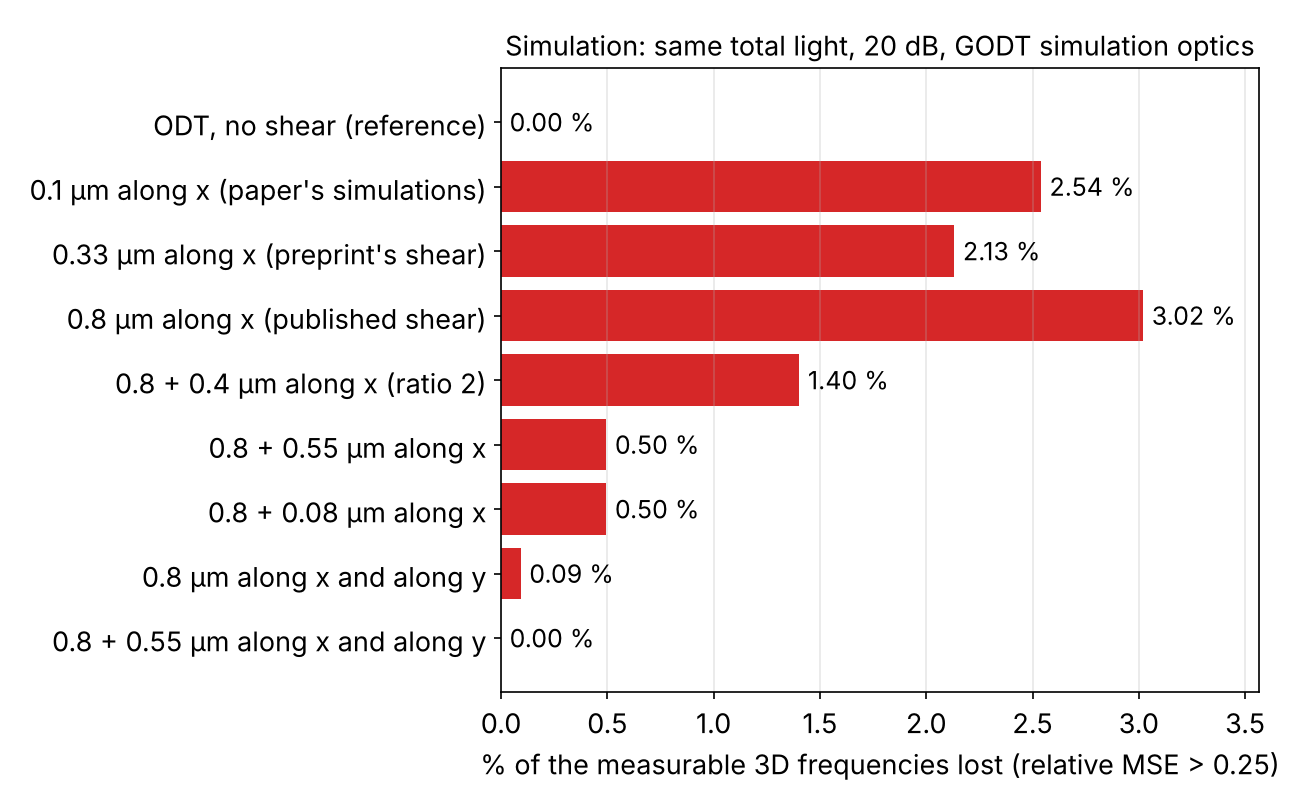
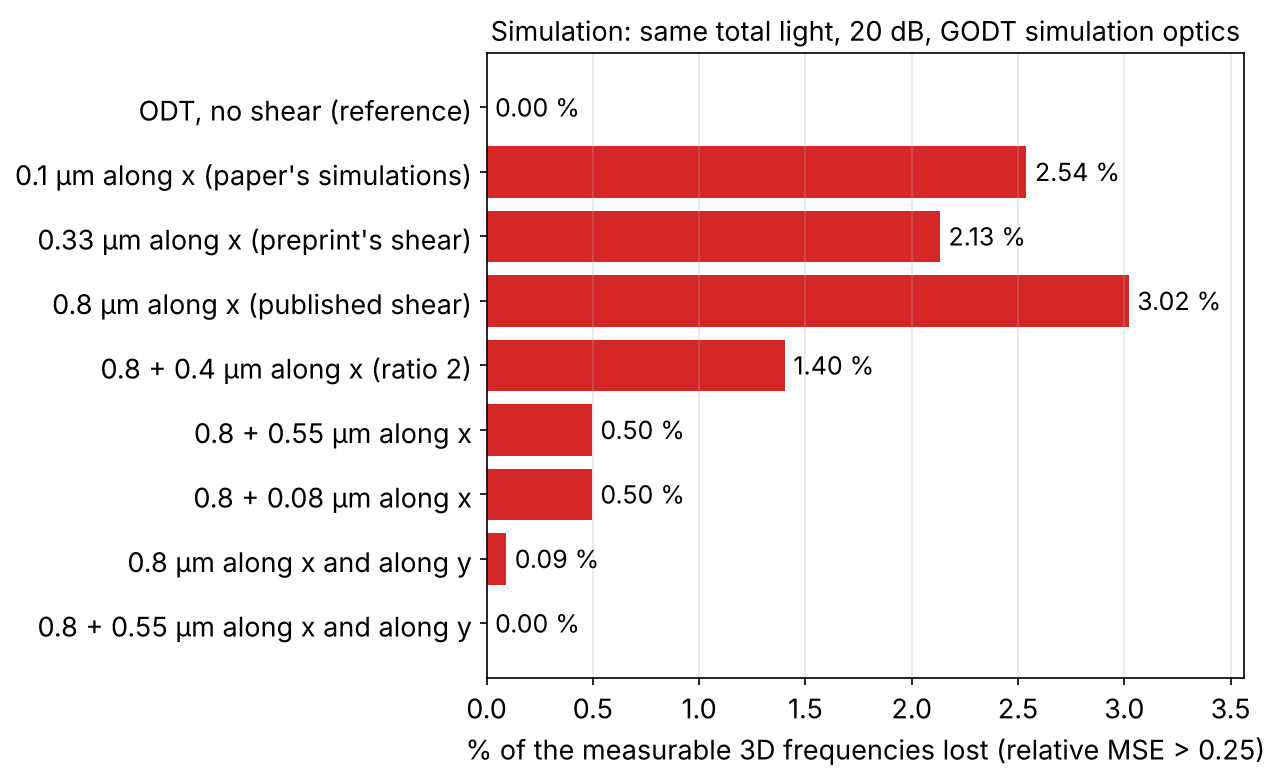
lint: final-check fixes
Finish the direction-vs-magnitude correction on the remaining pages (with [audit]
notes where the old claim is kept), fix the README's coprimality wording, fusion
range and CI description, drop the last 24x claim, test the 0.09 % and 0.50 %
figures, and stop the hero figure from clipping with other fonts.

diff --git a/tests/test_headline_numbers.py b/tests/test_headline_numbers.py
@@ -80,6 +80,8 @@ def test_exp03_lost_volume_in_the_readme_figure(exp03):
     assert floats(row(exp03, "0.8 x  (published exp)"))[1:3] == [0.0342, 3.02]
     assert floats(row(exp03, "0.1 x  (GODT sim shear)"))[2] == 2.54
     assert floats(row(exp03, "{0.8, 0.55} x + {0.8, 0.55} y"))[2] == 0.00
+    assert floats(row(exp03, "0.8 x + 0.8 y"))[2] == 0.09
+    assert floats(row(exp03, "0.8 x + 0.55 x"))[2] == 0.50
     assert floats(row(exp03, "an m != 0 null plane :"))[0] == 83.6
     assert floats(row(exp03, "the blind plane K_x=0:"))[0] == 16.4
     assert after(row(exp03, "field  25.6 um"), "proj:") == 76.6

diff --git a/lab/exp03_ewald_fisher.py b/lab/exp03_ewald_fisher.py
@@ -304,7 +304,7 @@ def main():
         ax2.invert_yaxis()
         ax2.grid(alpha=.3, axis="x")
         fig2.tight_layout()
-        fig2.savefig(out_path("lost_volume.png"), dpi=150)
+        fig2.savefig(out_path("lost_volume.png"), dpi=150, bbox_inches="tight")
     print()
     print(f"  wrote {out_path('ewald_maps.png')}")
     print(f"  wrote {out_path('lost_volume.png')}")

diff --git a/wiki/projects/godt.md b/wiki/projects/godt.md
@@ -36,7 +36,7 @@ The gradient *measurement* is shared with the whole [[gradient-phase-imaging]] f
 See [[multi-shear-acquisition]] for the full picture. There are two reasons.
 
 1. **Directional contrast.** A single shear sees index variation along one direction only ([[kandel2019]]; [[mehta-sheppard2008]] shows the transfer perpendicular to the shear is brightfield). Measured gains from extra directions saturate quickly, at about one orthogonal pair ([[zhu2024-appl-phys-b]], [[zhu2024-sensors]], [[zhu2025-sci-rep]]). Combining shear orientations is also the future work the GODT paper names.
-2. **Transfer nulls.** The finite-shear factor vanishes at $K=2\pi m/\Delta$. The null comb, and filling it with a second shear in a coprime ratio, are known in 2D lateral-shearing interferometry ([[servin2007]], [[mehta-sheppard2008]]; Elster & Weingärtner 1999, reviewed in Tomioka et al. 2023, arXiv:2309.16434). This project quantifies the comb in the 3D Ewald setting ([[finite-shear-null-experiment]]). In 3D a second shear direction already covers most of the first direction's null planes, and a second, incommensurate magnitude removes what both directions miss ([[multishear-fusion-design-solution]] §3). The null frequencies carry no data at any SNR, so this is recovery of missing information rather than noise averaging.
+2. **Transfer nulls.** The finite-shear factor vanishes at $K=2\pi m/\Delta$. The null comb, and filling it with a second shear in a coprime ratio, are known in 2D lateral-shearing interferometry ([[servin2007]], [[mehta-sheppard2008]]; Elster & Weingärtner 1999, summarised in Tomioka et al. 2023, arXiv:2309.16434). This project quantifies the comb in the 3D Ewald setting ([[finite-shear-null-experiment]]). In 3D a second shear direction already covers most of the first direction's null planes, and a second, incommensurate magnitude removes what both directions miss ([[multishear-fusion-design-solution]] §3). The null frequencies carry no data at any SNR, so this is recovery of missing information rather than noise averaging.
 
 Acquisition hardware for two shear directions already exists in several forms ([[nguyen2025-deep-learning-lsi]], [[sciadv-adl0501]], [[2605-04297-double-sagnac-ls-qpm]]), and colour can act as a shear magnitude ([[colour-multiplexed-shear]]). The question studied here is the reconstruction side: how to fuse shear channels in $\tilde O$-space, and how to choose them.
 
@@ -46,7 +46,7 @@ Code lives in [`lab/`](../../lab/README.md). The results below come from determi
 
 ### Step 1: transfer nulls ([[finite-shear-null-experiment]])
 
-At 0.8 μm shear, three nulls fall inside the measurable band and cost 3.56 % of it along the shear axis. At 0.1 μm there are none. Two design rules follow: avoid commensurate magnitude ratios, and treat magnitudes and directions as fixes for different defects.
+At 0.8 μm shear, three nulls fall inside the measurable band and cost 3.56 % of it along the shear axis. At 0.1 μm there are none. Two design rules follow: avoid commensurate magnitude ratios, and use both kinds of diversity, since a second direction covers the blind plane and most of the null planes and a second magnitude removes what both directions miss.
 
 ### Step 2: fusion and optimal design in 3D
 
@@ -56,7 +56,7 @@ Notes: [[multishear-fusion-design-problem]], [[multishear-fusion-design-solution
 2. Transmission ODT never samples the $K_z$ axis, so the fact that in-plane shears cannot see it costs nothing extra. What a single shear does lose is its blind *plane*, 0.50 % of the support, and a second shear direction recovers it.
 3. At 0.8 μm the lost volume is 3.02 %: 83.6 % on the null planes and 16.4 % on the blind plane. A second direction at the same magnitude cuts it to 0.09 %, a second magnitude along the same direction to 0.50 %, and both together to 0.00 %. A larger shear narrows the blind slab but lets nulls into the band, so single-shear quality is not monotone in $\Delta$.
 4. The best single shear is $\Delta\approx2\pi/K_{\max}=\lambda/(\mathrm{NA_{det}}+\mathrm{NA_{ill}})$ (0.20 μm for the simulation optics), the largest shear that keeps the null comb out of the band and roughly the lateral resolution limit. This assumes coherent, monochromatic light; partial coherence pulls the optimum to smaller shears.
-5. In the linear model and at equal photon budget, weighting each frequency by its information gives 21× lower error than equal-weight averaging of the reconstructions. Fusion is the same as precision-weighted averaging, so the estimator is standard; the 21× measures what the per-frequency weights are worth against plain averaging.
+5. In the linear model and at equal photon budget, weighting each frequency by its information gives 21× lower error (textured cell phantom) than equal-weight averaging of the reconstructions. Fusion is the same as precision-weighted averaging, so the estimator is standard; the 21× measures what the per-frequency weights are worth against plain averaging.
 6. Calibration may limit the high frequencies. With an assumed 10 nm rms random shear error, the band-edge SNR ceiling is about 20 dB below the photon limit. A broadband LED already partly fills the higher-order nulls.
 
 ### Colour as a shear channel ([[colour-multiplexed-shear]])
@@ -68,7 +68,7 @@ Three LED colours act like a mechanical pair of shear magnitudes, blue + green i
 The same estimator, run on data from a [[brenner1993]] WPM forward model:
 
 1. The null planes are set by the shear, whatever the scattering. The shear difference acts linearly on the measured Rytov field after all propagation, so the data vanish on the same planes for any scattering. The 4e-16 check confirms the implementation (on a periodic grid it is the DFT shift theorem). Wrapping of the phase difference, a finite field of view, broadband (dispersive) shear and spatially varying shear all blur the nulls, and a nonlinear inverse could in principle recover weak information there.
-2. The margins shrink with contrast. Fusion beats averaging by 9.6× under the ideal linear model, 1.8× with realistic gridding and 1.1× with multiple scattering at [[chen1998]]'s validity bound. Over the same steps, the best design's advantage over a single 0.8 μm shear goes from 14.3× to 2.5× and 1.3×.
+2. The margins shrink with contrast. Fusion beats averaging by 9.6× under the ideal linear model (on that note's cell phantom), 1.8× with realistic gridding and 1.1× with multiple scattering at [[chen1998]]'s validity bound. Over the same steps, the best design's advantage over a single 0.8 μm shear goes from 14.3× to 2.5× and 1.3×.
 3. Gridding matters. Moving from binned to continuum $K_z$ data with the real pupil costs a factor 6.2 under nearest-neighbour deposition, the largest correctable error in the pipeline ([[pan1983]]); a bilinear ablation will separate gridding from pupil effects.
 4. WPM vs. first Born (provisional). Multi-slice WPM takes the obliquity factor at the incident ray; on thick volumes this implementation shows a larger residual that may partly be a simulation-window effect and needs a wider-window re-run. The multiple-scattering margins above inherit this.
 5. Shear data never form the absolute phase, so they avoid the global unwrapping step whose failures end first-Rytov ODT's range in [[chen1998]]. They do not avoid the Rytov linearisation, and the shear difference has its own wrap limit (2.2 % of pixels at 0.8 μm vs 0.45 % one-pixel residues). A comparison against properly unwrapped ODT has not been run.
@@ -78,7 +78,7 @@ The same estimator, run on data from a [[brenner1993]] WPM forward model:
 - Everything is simulated. The experiment in the paper used a 530 nm LED with 35 nm bandwidth and an NA 1.45 objective, not the simulation optics used here, and the LED's bandwidth partly fills the higher-order nulls ([[multishear-fusion-design-solution]] §3, §6).
 - The fringe-visibility model $\mu(\Delta)$ and the 10 nm shear-calibration error are assumptions, not measurements.
 - The multiple-scattering numbers rest on a WPM model whose weak-scattering limit does not yet match first Born ([[multiple-scattering-check]] §3).
-- Nearest-neighbour gridding is the largest error in the pipeline and is not fixed yet.
+- Nearest-neighbour gridding is the largest correctable error in the pipeline and is not fixed yet.
 - Validation reports RMSE on cell-like phantoms only; SSIM, axial elongation, the Shepp–Logan phantom and the nano-printed phantom are not reported.
 - Each experiment note lists the rest under "What this does not establish".
 

diff --git a/README.md b/README.md
@@ -11,13 +11,14 @@ simulation optics. At that shear the instrument cannot see detail with a period 
 could otherwise measure are effectively lost.
 
 I then worked out how to choose and combine several shears so that, in the model, nothing is
-lost, and checked how much of the gain survives more realistic physics. Combining shears is an established remedy
-in 2D lateral-shearing interferometry (Elster & Weingärtner, 1999; review in
-[Tomioka et al., 2023](https://arxiv.org/abs/2309.16434)), and the GODT authors name combining
-shear directions as future work. What this project adds is the 3D tomographic version.
+lost, and checked how much of the gain survives more realistic physics. Combining shears is an
+established remedy in 2D lateral-shearing interferometry (Elster & Weingärtner, 1999;
+summarised in [Tomioka et al., 2023](https://arxiv.org/abs/2309.16434)), and the GODT authors
+name combining shear directions as future work. What this project adds is the 3D tomographic
+version.
 
 The repository holds a tested NumPy/SciPy simulation library, eight scripts that print the
-numbers quoted in the wiki (the headline ones are checked in CI), and notes on 27 papers.
+numbers quoted in the wiki (CI re-runs the fast ones), and notes on 27 papers.
 It is an independent project by Tomás Gantes Montero, a third-year physics undergraduate at
 Universidad Europea de Valencia, made with Claude Code as an AI coding agent
 ([how](#how-this-was-made)).
@@ -36,11 +37,12 @@ mean-squared error above 0.25), for single and combined shears at the same total
 
 1. A single 0.8 µm shear loses 3.02 % of the measurable volume: three planes of detail at
    0.8, 0.4 and 0.27 µm along the shear, plus the plane of structure that does not vary along
-   the shear at all. A second direction at the same shear (0.8 µm along x and y), which is the
-   combination the GODT authors propose, cuts the loss to 0.09 %. What remains lies where both
-   directions are blind at once, and adding a second magnitude that is not a small-integer
-   multiple of the first (0.55 µm) removes it. A pair of magnitudes along one direction only
-   gets to 0.50 %, because it still cannot see that plane.
+   the shear at all. A second direction at the same shear (0.8 µm along x and y), which is
+   what the GODT authors name as future work, cuts the loss to 0.09 %. What remains lies where
+   both directions are blind at once, and adding a second magnitude whose ratio to the first
+   is not a ratio of small integers (0.55 µm) removes it. A pair of magnitudes along one
+   direction only gets to 0.50 %, because neither magnitude sees structure that does not vary
+   along the shear.
 2. GODT's finite-shear factor multiplies the ODT spectrum point by point (Eq. 20 of the
    paper), so the information separates exactly into a shear part and a tomography part,
    `J(K) = ρ · S_t(K⊥) · M(K)`, and searching for the best design is cheap. In this model the
@@ -49,7 +51,7 @@ mean-squared error above 0.25), for single and combined shears at the same total
    coherence favours smaller shears.
 3. The channels have to be combined frequency by frequency, each weighted by its
    information. That is standard inverse-variance (joint least-squares) fusion. Averaging the
-   per-channel reconstructions instead is 10–21× worse in the linear model (two phantoms).
+   per-channel reconstructions instead is 9.6–21× worse in the linear model (two phantoms).
 4. The gains shrink as the model gets more realistic. The best design beats the published
    single shear by 14.3× in reconstruction error in the linear model, 2.5× with realistic
    (nearest-neighbour) gridding, and 1.3× once multiple scattering is included at the edge of
@@ -57,9 +59,9 @@ mean-squared error above 0.25), for single and combined shears at the same total
    weighting advantage from item 3 falls from 9.6× to 1.8× and 1.1× over the same steps. The
    multiple-scattering figures are provisional, because the wave-propagation model I use still
    disagrees with first-order Born theory by about 50 % in the weak-scattering limit.
-5. The blind planes are set by the shear, whatever the scattering. The shear difference is
-   linear in the measured Rytov field (the log of the field), so the data vanish on those
-   planes however the light was scattered. This holds for monochromatic light, a uniform and
+5. The blind planes are set by the shear alone. The shear difference is linear in the
+   measured Rytov field (the log of the field), so the data vanish on those planes however
+   the light was scattered. This holds for monochromatic light, a uniform and
    calibrated shear, and no wrapping of the phase difference, and reading the planes as lost
    object detail assumes a first-order reconstruction.
 
@@ -74,8 +76,10 @@ one place.
   optimality certificate, and a wave-propagation (multiple-scattering) forward model. Its
   selftest checks the core formulas against closed forms and brute force.
 - Eight experiment scripts (`lab/exp01`–`exp06`, `exp05b`, `exp08`), each deterministic or
-  seeded, each printing the numbers quoted in the wiki. The tests in `tests/` run the fast ones
-  and check the README's numbers against their output on every push.
+  seeded, each printing the numbers quoted in the wiki. On every push, the tests in `tests/`
+  run exp01–03 and exp05b and check the lost-volume and fusion numbers this README quotes.
+  The multiple-scattering numbers (exp06) need more memory than CI has and are not re-run
+  there.
 - Notes on 27 papers in `wiki/sources/` (28 pages, because the GODT preprint and the published
   paper have one each), linked to concept pages and to the derivations and experiment
   write-ups in `wiki/notes/`. The three notes behind the results are
@@ -102,9 +106,9 @@ of the paper summaries and wiki prose, and wrote much of the code in `lab/` to m
 specifications. [`CLAUDE.md`](CLAUDE.md) is the configuration I wrote for it, which makes it
 cite a source for every claim and mark anything else as inference.
 
-The results in the wiki come from deterministic or seeded scripts, and I re-ran all of them. The selftest checks the core formulas against closed forms and brute force. I can walk
-through any derivation or number here. The work was done between July and October 2026; this
-public copy starts from a single commit.
+The results in the wiki come from deterministic or seeded scripts, and I re-ran all of them.
+I can walk through any derivation or number here. The work was done between July and October
+2026; this public copy starts from a single commit.
 
 ## Running it
 
@@ -119,8 +123,8 @@ cd .. && pip install pytest && pytest -q    # unit tests and the README's number
 ```
 
 Figures go to `lab/out/` (gitignored, so re-run to regenerate). Rough run times on a laptop:
-exp01–02 a few seconds, exp03 ~20 s, exp08 ~30 s, exp05 ~2 min, exp04 ~4–6 min, exp06
-~20–30 min. exp06 also needs more than 6 GB of free memory.
+exp01–02 a few seconds, exp03 ~20 s, exp05b and exp08 under a minute, exp05 ~2 min, exp04
+~4–6 min, exp06 ~20–30 min. exp06 also needs more than 6 GB of free memory.
 `lab/requirements-ingest.txt` adds PyMuPDF for the PDF-to-text helper; no result depends on it.
 
 ## Layout

diff --git a/wiki/concepts/multi-shear-acquisition.md b/wiki/concepts/multi-shear-acquisition.md
@@ -19,7 +19,7 @@ Two distinct motivations. The GODT paper states the first; the second comes from
    A **second, distinct argument for direction diversity** arrives with [[2605-04297-double-sagnac-ls-qpm]]: integrating a single-direction differential phase map "introduces line artifacts in the reconstructed images," which their two-direction system removes. This is a *reconstruction*-side motivation — 1D integration accumulates error along its integration path, and a second orthogonal gradient constrains it — rather than a transfer-function one, and it is orthogonal to the saturation result below, which measured only accuracy in a global modal basis. It is also the weaker kind of claim for this project, since GODT does not integrate at all; but it is the reason the group itself gives for building two directions, and their single-Sagnac predecessor (arXiv:2604.20739) is where the artifact is documented.
 2. **Filling transfer-function nulls — tested, confirmed** ([[finite-shear-null-experiment]]). $|H_\Delta(K)| = 2|\sin(K\Delta/2)|/\Delta$, zeros at $K = 2\pi m/\Delta$. At GODT's published experimental shear of 0.8 μm, **three nulls fall inside the measurable band** (7.85, 15.71, 23.56 rad/μm); with their surroundings that is 3.56 % of the band at 20 dB, and the null frequencies themselves are lost at any SNR. At the 0.1 μm shear used in the paper's *simulations* there are none.
 
-   Two design rules fall out. **Magnitude ratios must not be ratios of small integers**: 0.8 + 0.4 barely helps because the nulls coincide, while 0.8 + 0.55 clears the band (the 3D study puts the best partner for 0.8 μm near 0.15–0.2 μm). And **magnitudes and directions fix different things** — magnitudes fill the $m\neq0$ comb, directions address the $K_x = 0$ blind line that no magnitude choice touches. Combining both gave an 8.5× RMSE improvement over single-shear 0.8 in a band-passed image test.
+   Two design rules fall out. **Magnitude ratios must not be ratios of small integers**: 0.8 + 0.4 barely helps because the nulls coincide, while 0.8 + 0.55 clears the band (the 3D study puts the best partner for 0.8 μm near 0.15–0.2 μm). And **directions and magnitudes complement each other**: only a second direction covers the $K_x=0$ blind line, and it also covers most of the first direction's nulls; a second magnitude fills what remains. Combining both gave an 8.5× RMSE improvement over single-shear 0.8 in a band-passed image test.
 
    **Redone in 3D against the real Ewald sampling, 2026-09-21** ([[multishear-fusion-design-solution]]). The true volume lost at the published 0.8 μm is **3.02 % of the sampled support**, not the 1D proxy's 3.56 %, and it is a different 3.02 %: **83.6 % of it sits on the null planes and 16.4 % on the blind plane**, which no magnitude choice touches. Two things the 1D calculation could not see. The 0.1 μm simulation shear has *no in-band nulls and still loses 2.54 %*, all blind plane, because a small shear has a wider low-$|G|$ slab around $K_x=0$; and 0.33 μm beats 0.1 μm despite having a null, for the same reason. **Single-shear quality is a trade between a null comb and a blind slab, not a monotone function of $\Delta$.**
 
@@ -56,7 +56,7 @@ The consequence for this project's argument: motivations 1 and 2 above are **not
 - **Servín, Cywiak & Dávila (2007)** — [[servin2007]] — the explicit Fourier-domain analysis: forward filter $2i\sin(dx\,\omega_x)\,\Phi$ (Eq. 6), inverse poles at $\sin(dx\,\omega_x)=0$ (Eq. 7), and a regularised LS inverse (Eq. 11) that is stable but cannot recover the lost information. Their $n$-direction generalisation (§7) allows variable magnitudes and directions, but addresses **spatial support** (boundary erosion on bounded pupils), not frequency-null filling. The authors call the frequency response "well known."
 - **Mehta & Sheppard (2008)** — [[mehta-sheppard2008]] — derives the DIC effective object spectrum as $T_N = 2iT\sin(2\pi m\Delta - \phi)$, the same zero comb, tracing it to Cogswell & Sheppard (1992) and naming contrast reversal at zero crossings as an artifact source.
 
-What [[finite-shear-null-experiment]] adds is the quantification at GODT's specific shear values (3 nulls in band at 0.8 μm vs. none at the 0.1 μm simulation shear) and the design rules in the tomographic setting. Combining coprime shear magnitudes is itself known in 2D (Elster & Weingärtner 1999 and follow-ups, reviewed in Tomioka et al., *Appl. Opt.* 2023, arXiv:2309.16434). In short: known 2D observations, quantified here in 3D.
+What [[finite-shear-null-experiment]] adds is the quantification at GODT's specific shear values (3 nulls in band at 0.8 μm vs. none at the 0.1 μm simulation shear) and the design rules in the tomographic setting. Combining coprime shear magnitudes is itself known in 2D (Elster & Weingärtner 1999 and follow-ups, summarised in Tomioka et al., *Appl. Opt.* 2023, arXiv:2309.16434). In short: known 2D observations, quantified here in 3D.
 
 Two things follow from Mehta-Sheppard that Servín does not cover. The DIC bias $\phi$ translates the whole comb ($2\pi m\Delta - \phi = k\pi$) — GODT discards this degree of freedom because its phase-shifting recovers the complex gradient directly, and whether bias diversity could substitute for or cheapen magnitude diversity is unexamined *(inference)*. And perpendicular to the shear, the DIC transmission cross-coefficient is *even*, i.e. brightfield — meaning a single shear transfers **zero** in-band phase information along that axis, not merely reduced contrast. That is firmer quantitative backing for motivation 1 than anything previously on this page.
 

diff --git a/wiki/sources/zhu2024-sensors.md b/wiki/sources/zhu2024-sensors.md
@@ -2,7 +2,7 @@
 type: source
 projects: [godt]
 created: 2026-07-19
-updated: 2026-07-22
+updated: 2026-10-20
 status: current
 source: "https://doi.org/10.3390/s24237714"
 ---
@@ -11,7 +11,7 @@ source: "https://doi.org/10.3390/s24237714"
 
 **Citation:** Yahui Zhu, Ailing Tian, Hongjun Wang, Bingcai Liu, *Sensors* **24**(23), 7714 (2024). DOI `10.3390/s24237714`. Huaiyin Normal University + Xi'an Technological University.
 
-**Gist:** Optical metrology, not microscopy — testing aspheric mirrors, not cells. It earns its place here because it is the corpus's only source that actually *measures* what extra shear **directions** buy you, and the honest answer is: **almost nothing beyond noise averaging**. That is a genuinely useful negative result for [[multi-shear-acquisition]], and it points the project's argument away from direction count and towards magnitude diversity.
+**Gist:** Optical metrology, not microscopy — testing aspheric mirrors, not cells. It earns its place here because it is the corpus's only source that actually *measures* what extra shear **directions** buy you, and the honest answer is: **almost nothing beyond noise averaging**. That is a genuinely useful negative result for [[multi-shear-acquisition]], and it points the project's argument away from direction count, towards what directions beyond one orthogonal pair cannot add. **[audit 2026-10-20]** Superseded in 3D: a second direction also covers most of the first direction's null planes (0.8 x + 0.8 y loses 0.09 % of the support vs 3.02 % for 0.8 x); see [[multi-shear-acquisition]].
 
 ## Key results
 
@@ -40,7 +40,7 @@ Modal, not spectral. The wavefront is expanded in the first $N$ Zernike polynomi
 
 Per [[godt]] and [[multi-shear-acquisition]]:
 
-- **The negative result clarifies where the gain is.** Direction count alone gives small gains — at least in 2D wavefront metrology, once you already have one orthogonal pair. That is consistent with the theory: an orthogonal pair already spans the full transverse gradient, so further directions are largely redundant, and this hardware delivers a full pair in *every* exposure. It leaves **magnitude diversity** — which fills the transfer nulls of [[finite-shear-null-experiment]] — as the load-bearing part of the multi-shear argument, and direction diversity as the fix for the narrower $K_x=0$ blind line. The two motivations should not be presented as equally strong.
+- **The negative result clarifies where the gain is.** Direction count alone gives small gains — at least in 2D wavefront metrology, once you already have one orthogonal pair. That is consistent with the theory: an orthogonal pair already spans the full transverse gradient, so further directions are largely redundant, and this hardware delivers a full pair in *every* exposure. It leaves **magnitude diversity** — which fills the transfer nulls of [[finite-shear-null-experiment]] — as the load-bearing part of the multi-shear argument, and direction diversity as the fix for the narrower $K_x=0$ blind line. The two motivations should not be presented as equally strong. **[audit 2026-10-20]** Superseded in 3D: a second direction also covers most of the first direction's null planes (0.8 x + 0.8 y loses 0.09 % of the support vs 3.02 % for 0.8 x); see [[multi-shear-acquisition]].
 - **Caveat before over-reading it.** This is a smooth, low-order, modally-representable wavefront fitted in a Zernike basis. A global modal fit is largely *immune* to transfer nulls, because a null at one spatial frequency is compensated by the basis's global support — so this experiment could not have revealed null-filling gains even if they existed. It is evidence about direction redundancy, not evidence against magnitude diversity. *(inference)*
 - **Modal versus spectral fusion is a real design choice for the extension.** This paper fuses shear channels by stacking rows in one least-squares Zernike problem; [[2509-15382-osi-flex]] fuses them by summing data-fidelity terms over channels in an autodiff optimisation; GODT works in $\tilde O$-space. The modal route trades high-frequency capability (capped by $N$) for null-immunity and heavy regularisation — probably wrong for tomography of textured biological samples, but it is the third option on the table and should be named as such.
 - **Hardware note.** The DBCs-BD is a fourth route to multi-direction shear, alongside [[nguyen2025-deep-learning-lsi]]'s polarization gratings and [[sciadv-adl0501]]'s metalens: passive, cheap, single-exposure, no diffractive elements. It needs a spatially coherent source (He-Ne here) for Fourier-transform carrier demodulation, so as written it is **incompatible with GODT's LED** for the same reason the carrier-multiplexing route already noted in [[multi-shear-acquisition]] is. The crystals themselves would work under low coherence; the demodulation scheme would not.

diff --git a/wiki/notes/finite-shear-null-experiment.md b/wiki/notes/finite-shear-null-experiment.md
@@ -10,7 +10,7 @@ status: current
 
 Tests the inference that GODT's finite-shear transfer factor nulls a comb of spatial frequencies, and that combining shears could fill those nulls. **Result: confirmed, with two corrections to the original framing.**
 
-Everything below is computed, not sourced. The one thing taken from a source is [[s42005-025-02416-3]]'s Eq. 20; all consequences are derived here. **Note:** the forward shearing filter and its nulls are established 2D prior art — [[servin2007]] derives $2i\sin(dx\,\omega_x)\,\Phi$ (their Eq. 6), plots the inverse's poles (Fig. 2), and states the information loss explicitly — and combining shear magnitudes with a coprime ratio is also known in 2D lateral shearing (Elster & Weingärtner 1999 and follow-ups, reviewed in Tomioka et al., *Appl. Opt.* 2023, arXiv:2309.16434). What this page adds is the quantification at GODT's shear values in the tomographic setting.
+Everything below is computed, not sourced. The one thing taken from a source is [[s42005-025-02416-3]]'s Eq. 20; all consequences are derived here. **Note:** the forward shearing filter and its nulls are established 2D prior art — [[servin2007]] derives $2i\sin(dx\,\omega_x)\,\Phi$ (their Eq. 6), plots the inverse's poles (Fig. 2), and states the information loss explicitly — and combining shear magnitudes with a coprime ratio is also known in 2D lateral shearing (Elster & Weingärtner 1999 and follow-ups, summarised in Tomioka et al., *Appl. Opt.* 2023, arXiv:2309.16434). What this page adds is the quantification at GODT's shear values in the tomographic setting.
 
 ## Why this is testable without the tomographic pipeline
 
@@ -101,7 +101,7 @@ $H$ depends on $K\!\cdot\!\mathbf{d}$, so a shear along $x$ is blind wherever $K
 | **x+y, 0.8+0.55 each** | **0.505** | **0.00 %** |
 | 3 dirs (0/60/120°), 0.8 | 0.013 | 0.64 % |
 
-So **magnitudes and directions fix different things**: magnitudes fill the $m\neq0$ comb, directions address the $K_x=0$ blind line. Neither alone clears the band; together they do.
+So **directions and magnitudes complement each other**: a second direction covers the $K_x=0$ blind line and most of the first direction's nulls (12.13 % → 1.14 %), a second magnitude fills the $m\neq0$ comb along one direction (→ 1.15 %), and only both together clear the band. **[audit 2026-10-20]** An earlier reading credited directions with the blind line only; see [[multishear-fusion-design-solution]] §2–3.
 
 **The finding worth carrying forward:** no set of *in-plane* shears recovers the $K_x=K_y=0$ axis — and that axis is exactly where the [[missing-cone-problem]] already sits. The shear blind spot and the missing cone overlap, which partly defuses the shear blind spot (those frequencies were already unmeasured). Checked against the full 3D Ewald sampling in [[multishear-fusion-design-solution]] §2.
 

diff --git a/wiki/sources/zhu2024-appl-phys-b.md b/wiki/sources/zhu2024-appl-phys-b.md
@@ -2,7 +2,7 @@
 type: source
 projects: [godt]
 created: 2026-07-19
-updated: 2026-07-22
+updated: 2026-10-20
 status: current
 source: "https://doi.org/10.1007/s00340-024-08353-3"
 ---
@@ -39,7 +39,7 @@ Differential Zernike polynomial fitting (DZF, after Liu 2003), which avoids the 
 
 Per [[godt]] and [[multi-shear-acquisition]]:
 
-- **It settles the direction-count question quantitatively.** Together with its two companions: two orthogonal pairs are worth having, more is not. A GODT multi-shear argument resting on direction count would be arguing for a ~40 % noise-averaging gain that saturates immediately; the argument resting on **magnitude diversity filling transfer nulls** is arguing for recovery of information that is otherwise structurally absent. These are not comparable claims and should not be presented as two halves of one motivation.
+- **It settles the direction-count question quantitatively.** Together with its two companions: two orthogonal pairs are worth having, more is not. A GODT multi-shear argument resting on direction count would be arguing for a ~40 % noise-averaging gain that saturates immediately; the argument resting on **magnitude diversity filling transfer nulls** is arguing for recovery of information that is otherwise structurally absent. These are not comparable claims and should not be presented as two halves of one motivation. **[audit 2026-10-20]** Superseded in 3D: a second direction also covers most of the first direction's null planes (0.8 x + 0.8 y loses 0.09 % of the support vs 3.02 % for 0.8 x); see [[multi-shear-acquisition]].
 - **The coefficient-averaging-beats-wavefront-averaging result is a transferable design hint.** Fusing in the representation you are solving for, rather than in the measurement domain, gave 6× here. The analogue for GODT would be fusing shear channels in $\tilde O$-space rather than averaging reconstructed gradient volumes. *(inference — but it is the same structural argument, and it costs nothing to respect.)*
 - **Its stated future work is close to this project's question.** "The frequency response of the shearing and un-shearing operators" for high-frequency objects is what [[finite-shear-null-experiment]] computed for GODT's filter. It is encouraging that a metrology group considers the same question important from the 2D modal side.
 - **Confirms the modal caveat.** All three Zhu papers reconstruct smooth, low-order, Zernike-representable wavefronts. A global modal basis is insensitive to a transfer zero at a single spatial frequency, so null damage would not show up in these experiments, as the authors' own note on high-frequency objects suggests. Their saturation results therefore bound direction diversity but say nothing about magnitude diversity.

diff --git a/wiki/sources/zhu2025-sci-rep.md b/wiki/sources/zhu2025-sci-rep.md
@@ -2,7 +2,7 @@
 type: source
 projects: [godt]
 created: 2026-07-19
-updated: 2026-07-22
+updated: 2026-10-20
 status: current
 source: "https://doi.org/10.1038/s41598-025-86370-8"
 ---
@@ -38,7 +38,7 @@ Jones-calculus derivation of the phase-shifting scheme (Eqs. 1–16), crystal-op
 
 Per [[godt]] and [[multi-shear-acquisition]]:
 
-- **Together with [[zhu2024-sensors]], this closes the question of what direction count alone buys.** Two independent experiments from the same group, on different optics, both find saturation. The multi-shear argument should therefore rest on **magnitude diversity** — which fills the transfer nulls quantified in [[finite-shear-null-experiment]] — and treat direction diversity as the narrower fix for the $K_x=0$ blind line, not as a second independent win. Both papers hold shear magnitude fixed and vary only direction, so neither is evidence against magnitude diversity; they simply do not test it.
+- **Together with [[zhu2024-sensors]], this closes the question of what direction count alone buys.** Two independent experiments from the same group, on different optics, both find saturation. The multi-shear argument should therefore rest on **magnitude diversity** — which fills the transfer nulls quantified in [[finite-shear-null-experiment]] — and treat direction diversity as the narrower fix for the $K_x=0$ blind line, not as a second independent win. Both papers hold shear magnitude fixed and vary only direction, so neither is evidence against magnitude diversity; they simply do not test it. **[audit 2026-10-20]** Superseded in 3D: a second direction also covers most of the first direction's null planes (0.8 x + 0.8 y loses 0.09 % of the support vs 3.02 % for 0.8 x); see [[multi-shear-acquisition]].
 - **Same caveat as its companion:** a smooth spherical wavefront fitted in 36 Zernikes cannot exhibit transfer-null damage, because a global modal basis is insensitive to a zero at one spatial frequency. The saturation result is about direction redundancy, not about nulls. *(inference)*
 - **The rotating-module design is directly transferable.** Rotating polarizer + crystal + QWP as one rigid unit, rather than rotating components individually, addresses the same problem any multi-direction polarization-grating setup faces.
 - **Alignment tolerance is a real cost.** The 3× azimuth-error amplification, and the fact that a 0.2° polarizer error is already comparable to the measurement error, sets expectations for any polarization-multiplexed multi-shear scheme — consistent with the 0.1-pixel shear-error sensitivity reported by [[2509-15382-osi-flex]]. Multi-shear is cheap in photons and expensive in calibration.

diff --git a/wiki/concepts/rytov-approximation.md b/wiki/concepts/rytov-approximation.md
@@ -45,7 +45,7 @@ So GODT does not need an unwrapping step at all: violations stay on the offendin
 | 0.46 | 0.330 | 1.077 |
 | 0.92 | 1.045 | 4.724 |
 
-Two things worth carrying. The error is **about 3× worse at the band edge** than at low frequency (4.7× at the highest contrast), so multiple scattering damages precisely the high transverse frequencies a multi-shear design exists to recover. And at [[chen1998]]'s bound $a\,\delta n=0.24\lambda$ the resulting *reconstruction* error is 0.288, against chen1998's stated ~25 %. The geometry and the metric differ, so this is consistency in magnitude rather than a precise cross-check.
+Two things worth carrying. The error is **about 3× worse at the band edge** than at low frequency (4.7× at the highest contrast, against the $|K|<10$ error of 1.010 in [[multiple-scattering-check]] §4), so multiple scattering damages precisely the high transverse frequencies a multi-shear design exists to recover. And at [[chen1998]]'s bound $a\,\delta n=0.24\lambda$ the resulting *reconstruction* error is 0.288, against chen1998's stated ~25 %. The geometry and the metric differ, so this is consistency in magnitude rather than a precise cross-check.
 
 ## Relevance
 

diff --git a/wiki/notes/multiple-scattering-check.md b/wiki/notes/multiple-scattering-check.md
@@ -61,8 +61,10 @@ source enters except [[s42005-025-02416-3]]'s optical parameters.
    benchmark collapses to RMSE 2.57 while the shear designs sit unchanged at 0.11 —
    entirely because the absolute Rytov phase reaches 4.96 rad and wraps at 5.7 % of
    pixels, and the shear difference does not. This is [[guizar-sicairos2011]]'s
-   argument demonstrated end-to-end. A comparison against *unwrapped* ODT has not been
-   run, so the 24× is an upper bound on the benefit. The other caveat: the shear
+   argument demonstrated end-to-end. That ratio (about 24×) is against a
+   baseline nobody uses: a comparison against *unwrapped* ODT has not been run, and shear
+   data still rely on the Rytov linearisation, which has failed by this contrast
+   (best-design RMSE 1.63 under model D, §5). The other caveat: the shear
    difference carries its own $|\Delta\varphi|<\pi$ limit across the shear distance,
    which grows with $\Delta$ (2.2 % of pixels at 0.8 μm, 4.2 % at 1.6 μm at that
    contrast) — it cost nothing measurable here, but it is what would bite first at
